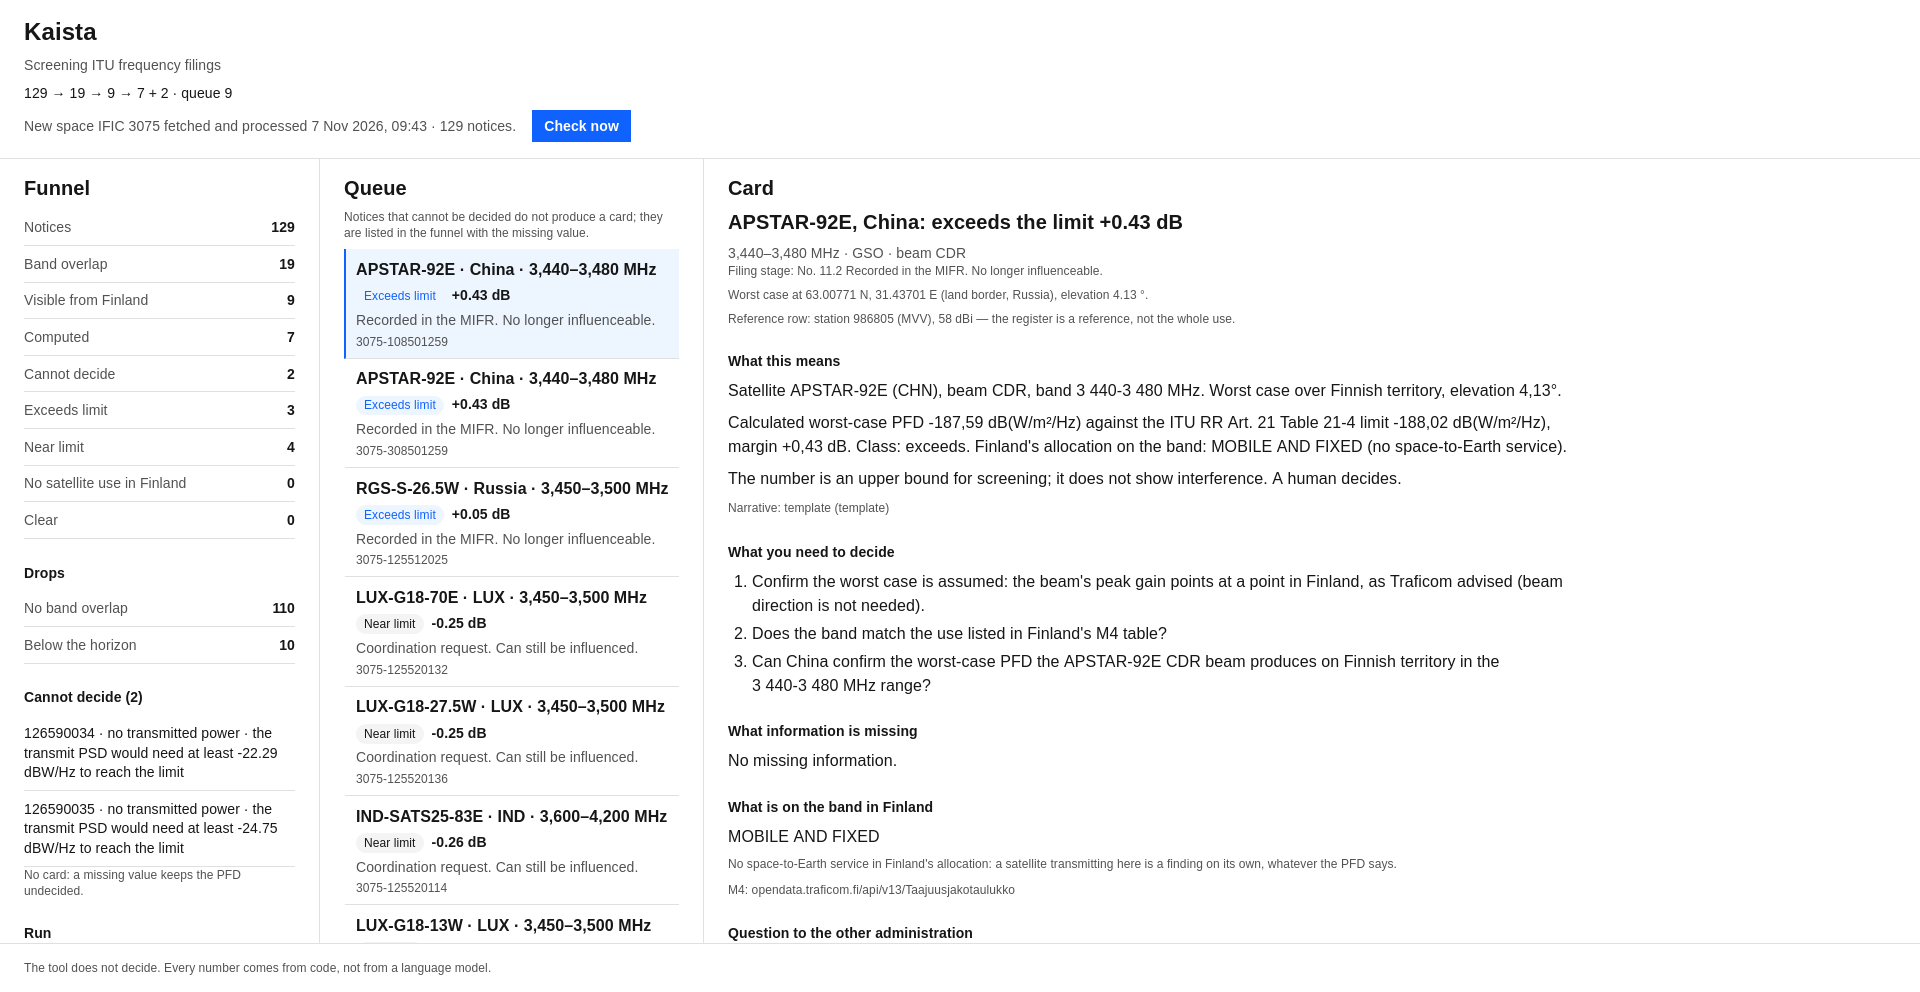
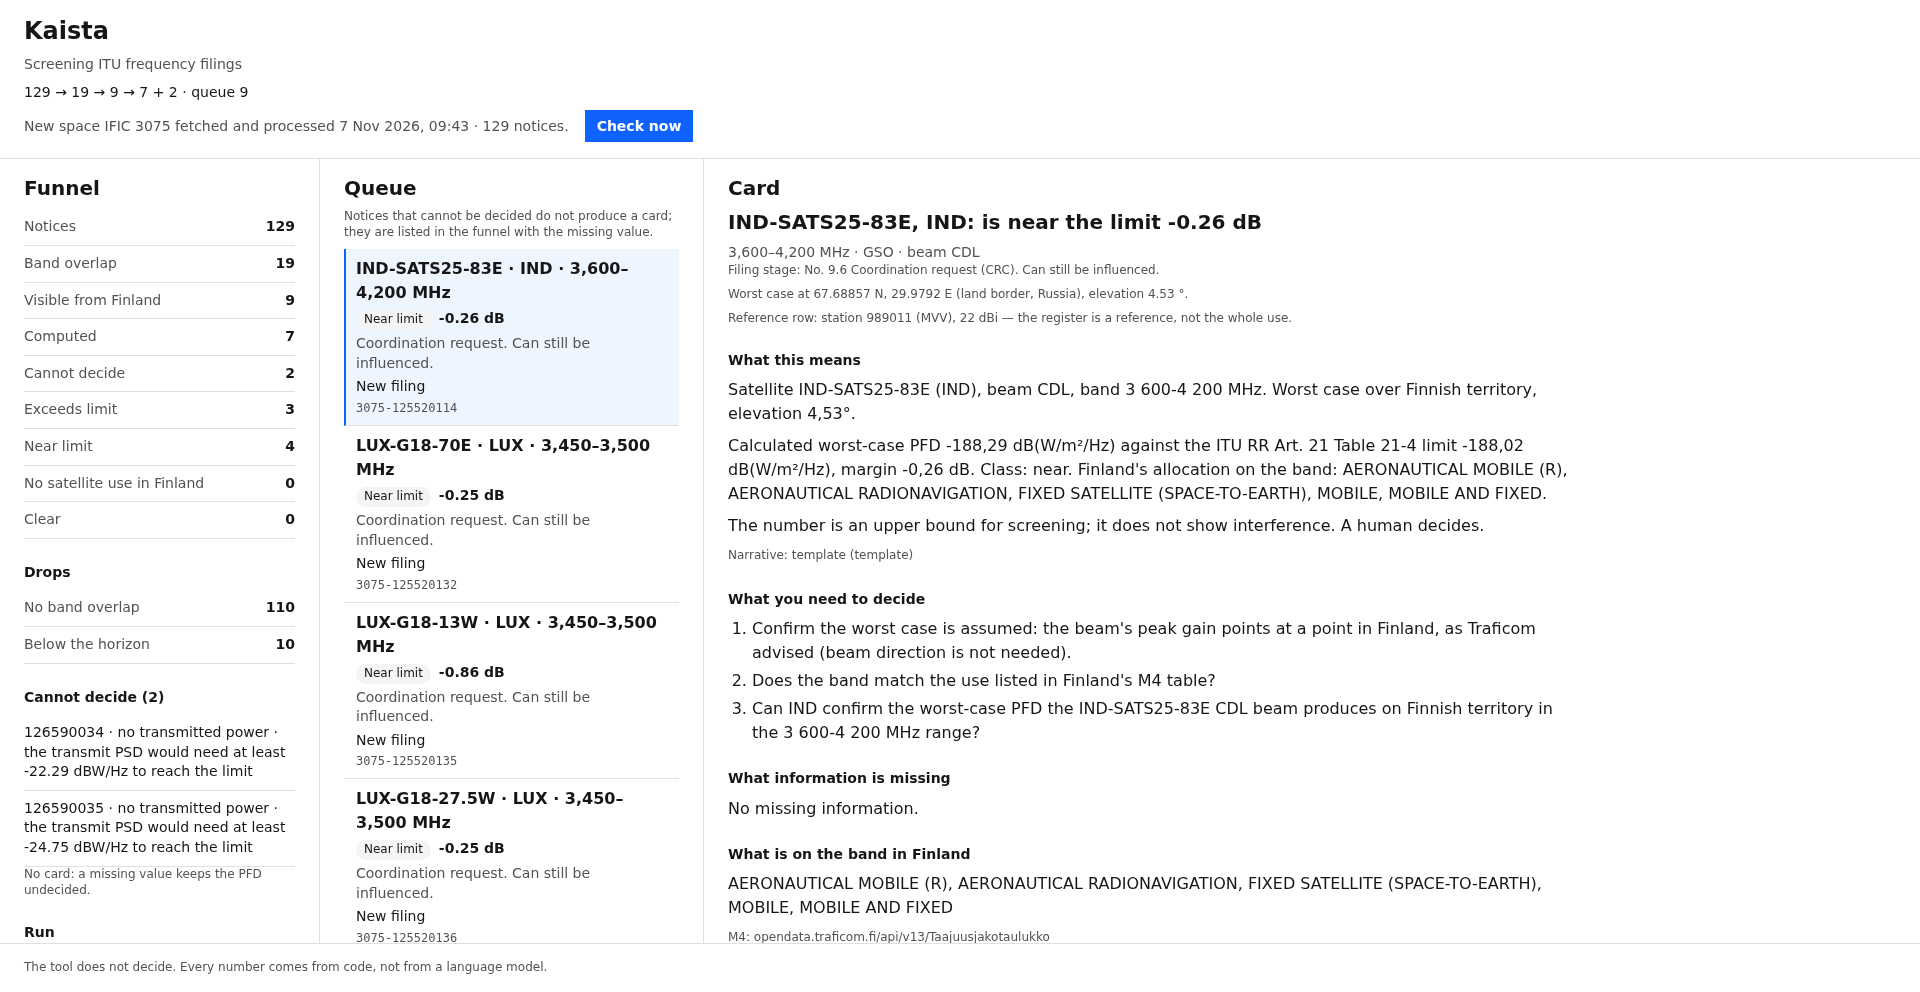
Docs: test counts at 180, the 3075 screenshot in stage order
make check gives 180 passed and a clean clone without data/ 131 passed, 49
skipped; tests/test_gates.py collects 18. README, SUBMISSION, features and the
demo script's section 8 carried 168-179. The features.md commit anchor is gone
rather than moved, so it cannot go stale again.

docs/screenshot.png is retaken from runs/3075 on this branch's UI: the queue
starts at 125520114 (9.6, near) and APSTAR-92E is fifth. README, SUBMISSION and
the demo texts (demo.md, demo-video.md, kaytto.md) no longer call APSTAR the
first card or order by margin; those passages are taken verbatim from the D18
working-tree edits so the later merge has nothing to resolve there.

diff --git a/SUBMISSION.md b/SUBMISSION.md
@@ -29,7 +29,7 @@ Everything before the card text is deterministic: `mdb-export` reads the BR IFIC
 
 Finding the package is the other half, so the tool does it too. `scripts/monitor.py` asks ITU for the next space BR IFIC, and the page shows the last package checked, when it was checked and, when nothing new is out yet, when the next check falls. "Check now" asks ITU again and ingests what it finds; a clean run writes its own `runs/<ific>/` and moves the `runs/latest` pointer. The check pulled IFIC 3075, the automatic path's demo: 129 notices to 19 to 9, seven cards and two undecidable notices. The first queue row is 125520114, a near case at a coordination request that Finland can still influence; the APSTAR-92E exceedance (0,43 dB over the limit) is fifth because its filing is already in the MIFR. IFIC 3074 stays the accuracy material.
 
-The tool is one module per feature, each with its own test file, 180 tests in all, 132 of them in a clean clone. A slice run takes about 4 seconds; every Finnish allocation about 22, because every GEO notice is evaluated at 552 points on the edge of Finnish territory. A side feature applies the same style to terrestrial land-mobile notices: `python -m app.pipeline --terrestrial` runs it in the same pass and into the same output directory, with the same `source` and `audit` blocks on every file it writes, and only the calculation path differs, ITU-R P.1546-6 field strength instead of the PFD gates.
+The tool is one module per feature, each with its own test file, 180 tests in all, 131 of them in a clean clone. A slice run takes about 4 seconds; every Finnish allocation about 22, because every GEO notice is evaluated at 552 points on the edge of Finnish territory. A side feature applies the same style to terrestrial land-mobile notices: `python -m app.pipeline --terrestrial` runs it in the same pass and into the same output directory, with the same `source` and `audit` blocks on every file it writes, and only the calculation path differs, ITU-R P.1546-6 field strength instead of the PFD gates.
 
 Two things the build met on the way. Beam geometry is empty in IFIC 3074 (`s_beam.bore_long`, `bore_lat`, `maj_axis`, `min_axis`), and following Traficom's Q3 answer the tool does not try to decide coverage from the beam: the worst case is always assumed, with the notice's own peak gain aimed at the edge of Finnish territory. A card states that on a `Coverage` line and asks the administration to confirm the worst-case PFD, so the `s_beam` fields no longer appear under `missing`. And the customer's later rule (Traficom, 7 Nov 2026) moved the screen off the delivered register: the bands now come from the Finnish allocation, the PFD from the territory edge, and a band Finland has not allocated to satellite use is a finding of its own even below the limit. The register stays on the card as a reference row. The demo slice's 3,47 to 3,78 GHz is `MOBILE AND FIXED` in Finland, so every one of its 20 cards carries that frequency finding.
 
@@ -196,7 +196,7 @@ Measured evidence, 7 Nov 2026, sandbox `janner-1-dev`. The raw output is in
 - The cluster slice run: the same gates and the same counts as the local run at that commit. `prose.source`: llm 5, template_guard 12, template 1, so the guard rejected 12 of
   the 17 drafts it saw. One call per card, 36.6 s to 120.3 s, median 86.9 s, whole run 25.6 min. The
   deterministic part of the same run took 1.19 s.
-- `make check` green: 137 tests passed in that run; 168 at the final commit. The tests never need
+- `make check` green: 137 tests passed in that run; 180 at the final commit. The tests never need
   the network.
 - One card fell back to the template. The slowest call measured 120.3 s, right at the 120 s
   client timeout in `app/llm.py`, but the log does not tell a timeout from a blank answer. After the
@@ -223,8 +223,8 @@ Sandbox facts (verified 6 and 7 Nov 2026, namespace `janner-1-dev`):
 
 Automated, done in the repository
 
-- [x] `make check` green: ruff check, ruff format --check, 168 tests passed
-- [x] README run steps work in a clean clone (123 passed, 45 skipped without `data/`)
+- [x] `make check` green: ruff check, ruff format --check, 180 tests passed
+- [x] README run steps work in a clean clone (131 passed, 49 skipped without `data/`)
 - [x] Pre-existing work and outside assets stated in README and About (template commit `6fe98b9`)
 - [x] No secrets or challenge data committed; `data/` and `out/` are gitignored
 - [x] `make submission-zip` builds `dist/kaista-submission.zip`, tracked files at HEAD only, no data

diff --git a/docs/features.md b/docs/features.md
@@ -1,8 +1,7 @@
 # Features
 
-What each part of the pipeline does, how it is built, and which test file covers it. Written against
-commit `5be8bd5`, verified on 7 Nov 2026 with `make check` (179 passed) and a clean clone
-(131 passed, 48 skipped).
+What each part of the pipeline does, how it is built, and which test file covers it. Verified on 7 Nov
+2026 with `make check` (180 passed) and a clean clone (131 passed, 49 skipped).
 
 For a test count, quote the clean-clone number: it needs no challenge data.
 
@@ -180,7 +179,7 @@ Measured in IFIC 3074: `grp_res35` (`grp_id`, `d_ms_next_deadline`) has 254 rows
 belong to three notices, 125500277, 126500053 and 325500168; 125500277 is one of the 20 demo cases,
 so the demo queue moves by one row and every other number is unchanged.
 
-Tests (`tests/test_gates.py`, 17 collected): `test_class_boundaries`,
+Tests (`tests/test_gates.py`, 18 collected): `test_class_boundaries`,
 `test_notice_deadlines_pick_the_earliest_upcoming` (a notice with several group deadlines, one
 upcoming, one passed, one absent), `test_queue_orders_by_stage_then_deadline_then_margin`,
 `test_queue_holds_every_concern_and_no_clear`, `test_queue_puts_coordination_before_notification`,
@@ -601,7 +600,7 @@ Tests (`tests/test_fetch_data.py`, 2): `test_html_instead_of_zip_is_rejected`,
 There are no committed data fixtures. The tests that need a real input are marked `data` and read
 `data/itu-ific-3074/ific3074.mdb`, `data/frequencies_of_interest.csv`, `data/taajuusjakotaulukko.json`
 and the two terrestrial BR IFIC MDBs; `tests/conftest.py` skips every one of them when
-`data/itu-ific-3074/ific3074.mdb` is missing, so a clean clone runs green (131 passed, 48 skipped).
+`data/itu-ific-3074/ific3074.mdb` is missing, so a clean clone runs green (131 passed, 49 skipped).
 The pure tests carry their own inputs in the test: the unit forms in `tests/test_ingest.py`, the band
 merging in `tests/test_bands.py`, the guard rows in `tests/test_gates.py`, the PFD vectors and the
 limit table in `tests/test_pfd.py`.

diff --git a/README.md b/README.md
@@ -73,7 +73,7 @@ the run the page shows (`runs/3075/`): `129 → 19 → 9 → 7 + 2`, 3 exceeds, 
 9 queue rows; the first queue row is `125520114`, a coordination-stage near case, and the APSTAR-92E
 exceedance is fifth because its filing is already in the MIFR. The accuracy dataset is the challenge's
 IFIC 3074 (`out/`): 196 notices, one row per notice in `3074_results.csv`. Measured 7 Nov 2026:
-`make check` 180 tests (132 passed, 48 skipped without `data/`). The deterministic pipeline is offline; the
+`make check` 180 tests (131 passed, 49 skipped without `data/`). The deterministic pipeline is offline; the
 optional LLM prose step is the only part of the run that opens a connection, and only when
 `LLM_BASE_URL` is set. `scripts/monitor.py` is the one part that reaches the network on its own: it
 checks ITU's URL for the next BR IFIC on the two-week cadence and runs it into `runs/<ific>/`.
@@ -190,8 +190,8 @@ under a `kaista/` prefix, plus the accuracy files from the last run under `resul
 
 | Environment | Result (7 Nov 2026) |
 |---|---|
-| With `data/` | 170 passed |
-| Clean clone, no `data/` | 124 passed, 46 skipped |
+| With `data/` | 180 passed |
+| Clean clone, no `data/` | 131 passed, 49 skipped |
 
 There are no committed data fixtures. Every test that needs a real input is marked `data` and reads
 the 274 MB BR IFIC MDB, the Traficom register and the M4 table (and the two terrestrial BR IFIC MDBs

diff --git a/docs/decisions.md b/docs/decisions.md
@@ -576,11 +576,11 @@ margin in its stage); `tests/test_cards.py::test_deadline_line_marks_a_passed_de
 `test_queue_md_carries_a_deadline_column` (synthetic) and
 `test_the_demo_card_shows_its_res35_deadline` (data).
 
-Known limit: the order lives in three places (`gate4`, `scripts/notify.py::top_cases`, and
-`app/static/index.html`'s `compareQueue`); only `gate4` gained the deadline key here, so the digest
-and the UI still sort by stage then margin. `out/queue.md` is the queue of record. Updating the two
-copies is a separate change, because a new key can reorder the UI and invalidate the committed
-screenshot.
+Known limit: the order lives in four places (`gate4`, `app/main.py::queue`,
+`scripts/notify.py::top_cases` and `app/static/index.html`'s `queueKey`). All four carry the same
+stage, class, deadline key since 7 Nov 2026; the copies exist because `notify.py` stays stdlib-only
+and the page sorts what the API sends. `out/queue.md` is the queue of record. A new key changes
+four files and the committed screenshot.
 
 ### T1. The P.1546 table is generated once and committed
 

diff --git a/docs/demo.md b/docs/demo.md
@@ -298,10 +298,10 @@ cards, because no endpoint was set.
 ## 8. The full test suite
 
 ```bash
-make check        # ruff check, ruff format --check, pytest: 168 passed with data/
+make check        # ruff check, ruff format --check, pytest: 180 passed with data/
 ```
 
-In a clean clone without `data/`, the data tests skip themselves: 123 passed, 45 skipped. The number
+In a clean clone without `data/`, the data tests skip themselves: 131 passed, 49 skipped. The number
 to quote for "does it work on my machine" is that one, since it needs no challenge data.
 
 ## 9. The optional Teams digest (15 seconds)
